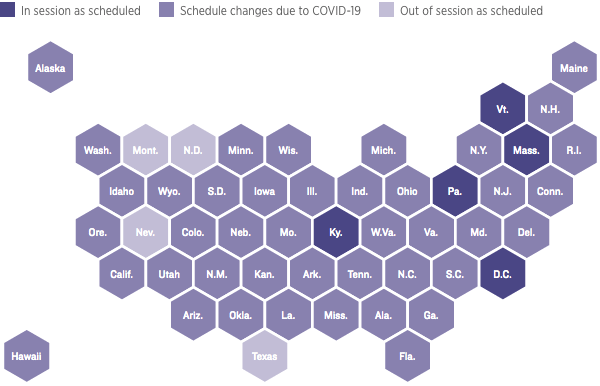
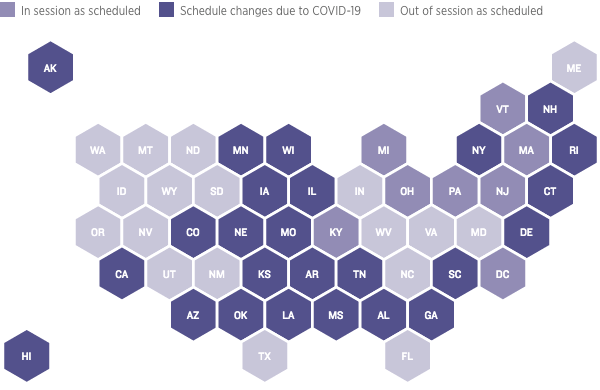
changes to covid legislatures and state emergencies

diff --git a/covid-state-legislatures-20200317/graphic.js b/covid-state-legislatures-20200317/graphic.js
@@ -190,7 +190,7 @@ var renderStateGridMap = function (config) {
         .attr("text-anchor", "middle")
         .text(function (d) {
             var state = STATES.filter(s => s.name == d.state_name).pop();
-            return isMobile.matches ? state.usps : state.ap;
+            return isMobile.matches ? state.usps : state.usps;
         })
         .attr("class", d =>
             d[valueColumn] !== null ?

diff --git a/covid-state-status-20200331/graphic.js b/covid-state-status-20200331/graphic.js
@@ -182,7 +182,7 @@ var renderStateGridMap = function(config) {
     .attr("text-anchor", "middle")
     .text(function(d) {
       var state = STATES.filter(s => s.name == d.state_name).pop();
-      return isMobile.matches ? state.usps : state.ap;
+      return isMobile.matches ? state.usps : state.usps;
     })
     .attr("class", d =>
       d[valueColumn] !== null
